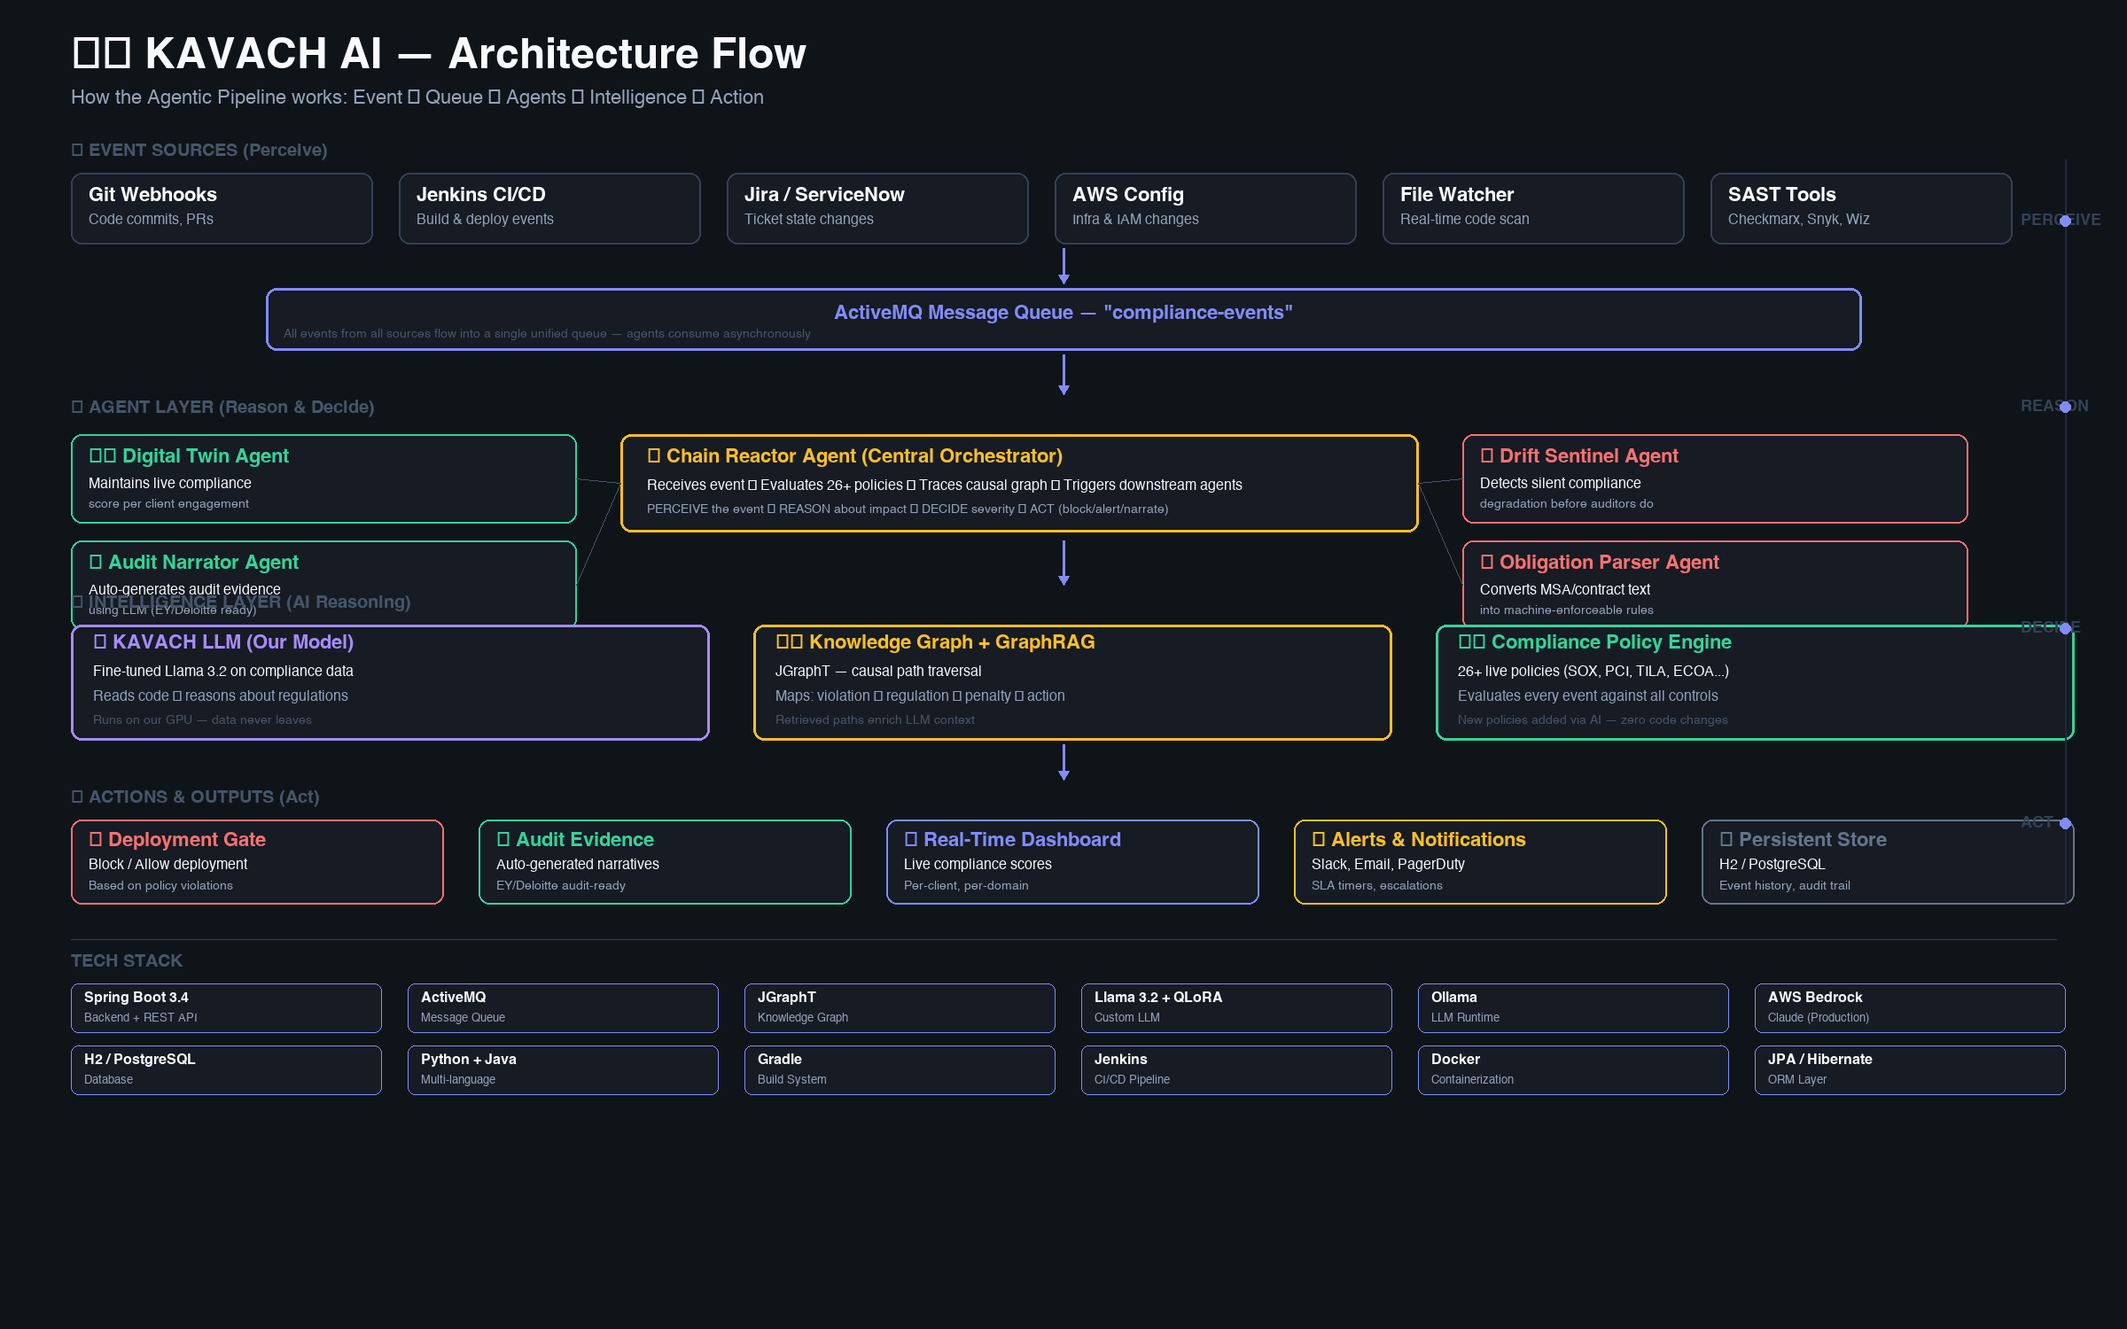
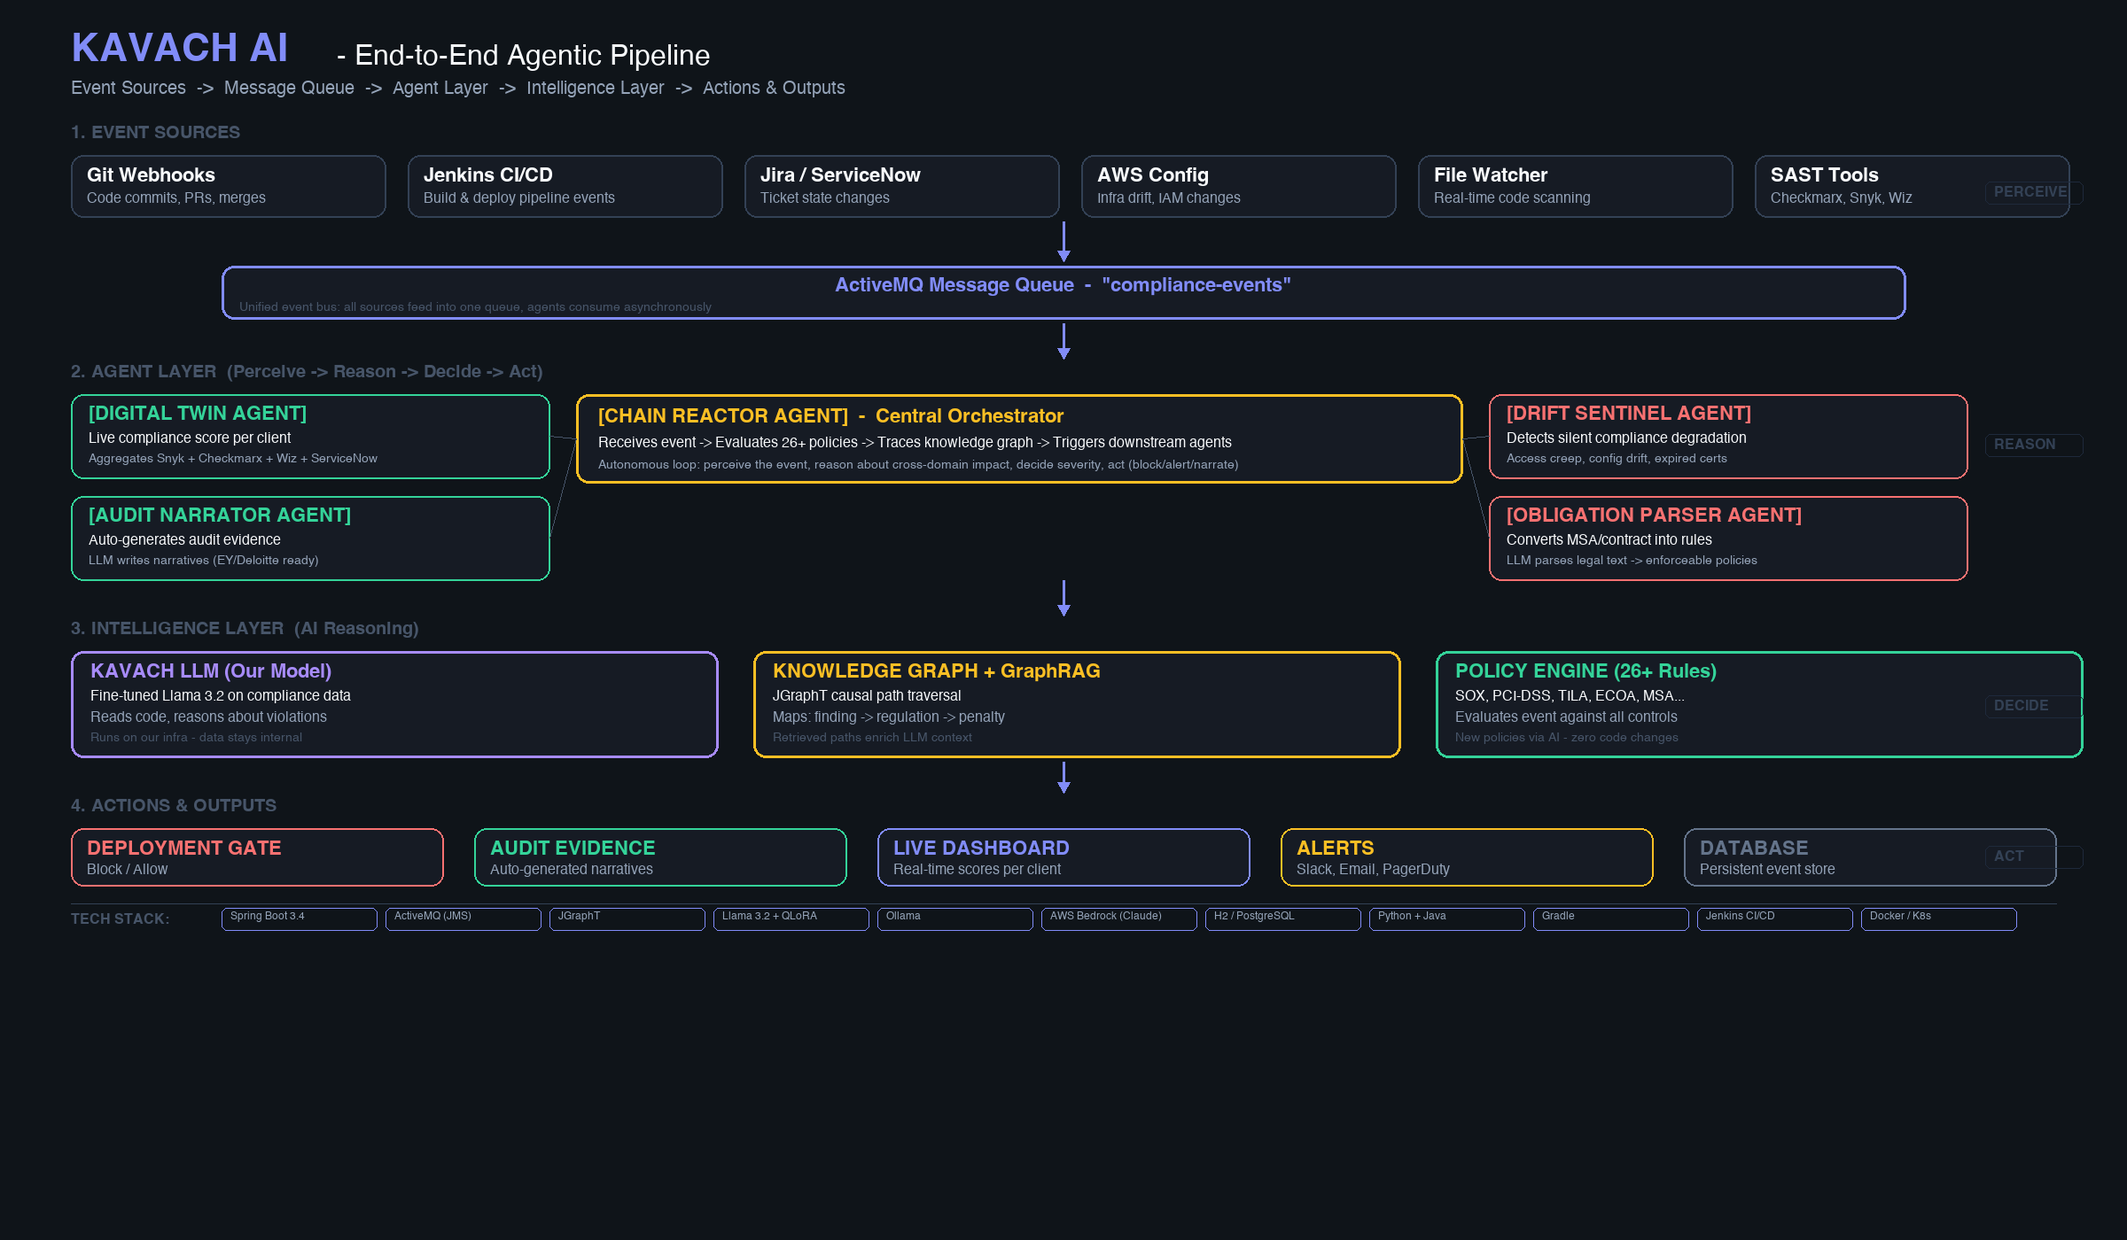
fix: Regenerate architecture PNG without emojis — no more square boxes

diff --git a/generate_architecture_image.py b/generate_architecture_image.py
@@ -1,11 +1,11 @@
 #!/usr/bin/env python3
-"""Generate a high-resolution architecture diagram as PNG."""
+"""Generate a high-resolution architecture diagram as PNG — no emoji (avoids square boxes)."""
 
 from PIL import Image, ImageDraw, ImageFont
 import os
 
 # Image size (high-res for presentation)
-W, H = 2400, 1500
+W, H = 2400, 1400
 img = Image.new('RGB', (W, H), '#0f1419')
 draw = ImageDraw.Draw(img)
 
@@ -18,15 +18,15 @@ def font(size, bold=False):
     except:
         return ImageFont.load_default()
 
-f_title = font(48, bold=True)
-f_subtitle = font(22)
-f_label = font(18, bold=True)
+f_title = font(44, bold=True)
+f_subtitle = font(20)
+f_section = font(20, bold=True)
 f_box_title = font(22, bold=True)
 f_box_sub = font(16)
 f_box_detail = font(14)
-f_section = font(20, bold=True)
-f_tech = font(16, bold=True)
-f_tech_sub = font(13)
+f_label = font(16, bold=True)
+f_tech = font(15, bold=True)
+f_tech_sub = font(12)
 
 # Colors
 PURPLE = '#818cf8'
@@ -39,8 +39,8 @@ DIM = '#475569'
 DARK_CARD = '#161b24'
 BORDER = '#334155'
 
-def rounded_rect(x, y, w, h, fill=DARK_CARD, outline=BORDER, radius=12, width=2):
-    draw.rounded_rectangle([x, y, x+w, y+h], radius=radius, fill=fill, outline=outline, width=width)
+def box(x, y, w, h, outline=BORDER, width=2, radius=14):
+    draw.rounded_rectangle([x, y, x+w, y+h], radius=radius, fill=DARK_CARD, outline=outline, width=width)
 
 def center_text(text, x, y, w, fnt, fill=WHITE):
     bbox = draw.textbbox((0,0), text, font=fnt)
@@ -48,175 +48,160 @@ def center_text(text, x, y, w, fnt, fill=WHITE):
     draw.text((x + (w - tw)//2, y), text, font=fnt, fill=fill)
 
 def arrow_down(x, y1, y2, color=PURPLE):
-    draw.line([(x, y1), (x, y2-8)], fill=color, width=3)
-    draw.polygon([(x-6, y2-10), (x+6, y2-10), (x, y2)], fill=color)
+    draw.line([(x, y1), (x, y2-10)], fill=color, width=3)
+    draw.polygon([(x-7, y2-12), (x+7, y2-12), (x, y2)], fill=color)
 
 # ═══════════════════════════════════════════════════════════
 # TITLE
 # ═══════════════════════════════════════════════════════════
-draw.text((80, 40), "🛡 KAVACH AI — Architecture Flow", font=f_title, fill=WHITE)
-draw.text((80, 100), "How the Agentic Pipeline works: Event → Queue → Agents → Intelligence → Action", font=f_subtitle, fill=GRAY)
+draw.text((80, 35), "KAVACH AI", font=f_title, fill=PURPLE)
+draw.text((380, 48), "- End-to-End Agentic Pipeline", font=font(32), fill=WHITE)
+draw.text((80, 90), "Event Sources  ->  Message Queue  ->  Agent Layer  ->  Intelligence Layer  ->  Actions & Outputs", font=f_subtitle, fill=GRAY)
 
 # ═══════════════════════════════════════════════════════════
 # LAYER 1: EVENT SOURCES
 # ═══════════════════════════════════════════════════════════
-draw.text((80, 160), "① EVENT SOURCES (Perceive)", font=f_section, fill=DIM)
+y0 = 140
+draw.text((80, y0), "1. EVENT SOURCES", font=f_section, fill=DIM)
 
 sources = [
-    ("Git Webhooks", "Code commits, PRs"),
-    ("Jenkins CI/CD", "Build & deploy events"),
+    ("Git Webhooks", "Code commits, PRs, merges"),
+    ("Jenkins CI/CD", "Build & deploy pipeline events"),
     ("Jira / ServiceNow", "Ticket state changes"),
-    ("AWS Config", "Infra & IAM changes"),
-    ("File Watcher", "Real-time code scan"),
+    ("AWS Config", "Infra drift, IAM changes"),
+    ("File Watcher", "Real-time code scanning"),
     ("SAST Tools", "Checkmarx, Snyk, Wiz"),
 ]
-sx = 80
 for i, (title, sub) in enumerate(sources):
-    bx = sx + i * 370
-    rounded_rect(bx, 195, 340, 80, outline=BORDER)
-    draw.text((bx+20, 210), title, font=f_box_title, fill=WHITE)
-    draw.text((bx+20, 240), sub, font=f_box_sub, fill=GRAY)
+    bx = 80 + i * 380
+    box(bx, y0+35, 355, 70)
+    draw.text((bx+18, y0+48), title, font=f_box_title, fill=WHITE)
+    draw.text((bx+18, y0+76), sub, font=f_box_sub, fill=GRAY)
 
-# Arrow down to queue
-arrow_down(W//2, 280, 320, PURPLE)
+# Arrow
+arrow_down(W//2, y0+110, y0+155, PURPLE)
 
 # ═══════════════════════════════════════════════════════════
 # LAYER 2: MESSAGE QUEUE
 # ═══════════════════════════════════════════════════════════
-rounded_rect(300, 325, W-600, 70, outline=PURPLE, width=3)
-center_text("ActiveMQ Message Queue — \"compliance-events\"", 300, 343, W-600, f_box_title, PURPLE)
-draw.text((320, 370), "All events from all sources flow into a single unified queue — agents consume asynchronously", font=f_box_detail, fill=DIM)
+y1 = y0 + 160
+box(250, y1, W-500, 60, outline=PURPLE, width=3)
+center_text("ActiveMQ Message Queue  -  \"compliance-events\"", 250, y1+12, W-500, f_box_title, PURPLE)
+draw.text((270, y1+40), "Unified event bus: all sources feed into one queue, agents consume asynchronously", font=f_box_detail, fill=DIM)
 
-arrow_down(W//2, 400, 445, PURPLE)
+arrow_down(W//2, y1+65, y1+105, PURPLE)
 
 # ═══════════════════════════════════════════════════════════
 # LAYER 3: AGENT LAYER
 # ═══════════════════════════════════════════════════════════
-draw.text((80, 450), "② AGENT LAYER (Reason & Decide)", font=f_section, fill=DIM)
+y2 = y1 + 110
+draw.text((80, y2), "2. AGENT LAYER  (Perceive -> Reason -> Decide -> Act)", font=f_section, fill=DIM)
 
-# Chain Reactor (center, larger)
-cx, cy = 700, 490
-rounded_rect(cx, cy, 900, 110, outline=AMBER, width=3)
-draw.text((cx+30, cy+15), "⚡ Chain Reactor Agent (Central Orchestrator)", font=f_box_title, fill=AMBER)
-draw.text((cx+30, cy+50), "Receives event → Evaluates 26+ policies → Traces causal graph → Triggers downstream agents", font=f_box_sub, fill=WHITE)
-draw.text((cx+30, cy+78), "PERCEIVE the event → REASON about impact → DECIDE severity → ACT (block/alert/narrate)", font=f_box_detail, fill=GRAY)
+# Chain Reactor (center, prominent)
+cx = 650
+box(cx, y2+35, 1000, 100, outline=AMBER, width=3)
+draw.text((cx+25, y2+50), "[CHAIN REACTOR AGENT]  -  Central Orchestrator", font=f_box_title, fill=AMBER)
+draw.text((cx+25, y2+82), "Receives event -> Evaluates 26+ policies -> Traces knowledge graph -> Triggers downstream agents", font=f_box_sub, fill=WHITE)
+draw.text((cx+25, y2+108), "Autonomous loop: perceive the event, reason about cross-domain impact, decide severity, act (block/alert/narrate)", font=f_box_detail, fill=GRAY)
 
 # Left agents
-agents_left = [
-    ("🏗 Digital Twin Agent", "Maintains live compliance", "score per client engagement", GREEN),
-    ("📝 Audit Narrator Agent", "Auto-generates audit evidence", "using LLM (EY/Deloitte ready)", GREEN),
+left_agents = [
+    ("[DIGITAL TWIN AGENT]", "Live compliance score per client", "Aggregates Snyk + Checkmarx + Wiz + ServiceNow", GREEN),
+    ("[AUDIT NARRATOR AGENT]", "Auto-generates audit evidence", "LLM writes narratives (EY/Deloitte ready)", GREEN),
 ]
-for i, (title, line1, line2, color) in enumerate(agents_left):
-    ay = 490 + i * 120
-    rounded_rect(80, ay, 570, 100, outline=color, width=2)
-    draw.text((100, ay+15), title, font=f_box_title, fill=color)
-    draw.text((100, ay+48), line1, font=f_box_sub, fill=WHITE)
-    draw.text((100, ay+72), line2, font=f_box_detail, fill=GRAY)
-    # Connection line
-    draw.line([(650, ay+50), (700, cy+55)], fill=DIM, width=1)
+for i, (title, line1, line2, color) in enumerate(left_agents):
+    ay = y2 + 35 + i * 115
+    box(80, ay, 540, 95, outline=color, width=2)
+    draw.text((100, ay+12), title, font=f_box_title, fill=color)
+    draw.text((100, ay+42), line1, font=f_box_sub, fill=WHITE)
+    draw.text((100, ay+66), line2, font=f_box_detail, fill=GRAY)
+    # connector
+    draw.line([(620, ay+47), (cx, y2+85)], fill=DIM, width=1)
 
 # Right agents
-agents_right = [
-    ("🔍 Drift Sentinel Agent", "Detects silent compliance", "degradation before auditors do", RED),
-    ("📜 Obligation Parser Agent", "Converts MSA/contract text", "into machine-enforceable rules", RED),
+right_agents = [
+    ("[DRIFT SENTINEL AGENT]", "Detects silent compliance degradation", "Access creep, config drift, expired certs", RED),
+    ("[OBLIGATION PARSER AGENT]", "Converts MSA/contract into rules", "LLM parses legal text -> enforceable policies", RED),
 ]
-for i, (title, line1, line2, color) in enumerate(agents_right):
-    ay = 490 + i * 120
-    rounded_rect(1650, ay, 570, 100, outline=color, width=2)
-    draw.text((1670, ay+15), title, font=f_box_title, fill=color)
-    draw.text((1670, ay+48), line1, font=f_box_sub, fill=WHITE)
-    draw.text((1670, ay+72), line2, font=f_box_detail, fill=GRAY)
-    draw.line([(1650, ay+50), (1600, cy+55)], fill=DIM, width=1)
+for i, (title, line1, line2, color) in enumerate(right_agents):
+    ay = y2 + 35 + i * 115
+    box(1680, ay, 540, 95, outline=color, width=2)
+    draw.text((1700, ay+12), title, font=f_box_title, fill=color)
+    draw.text((1700, ay+42), line1, font=f_box_sub, fill=WHITE)
+    draw.text((1700, ay+66), line2, font=f_box_detail, fill=GRAY)
+    draw.line([(1680, ay+47), (cx+1000, y2+85)], fill=DIM, width=1)
 
 # Arrow down
-arrow_down(W//2, 610, 660, PURPLE)
+arrow_down(W//2, y2+245, y2+285, PURPLE)
 
 # ═══════════════════════════════════════════════════════════
 # LAYER 4: INTELLIGENCE LAYER
 # ═══════════════════════════════════════════════════════════
-draw.text((80, 670), "③ INTELLIGENCE LAYER (AI Reasoning)", font=f_section, fill=DIM)
+y3 = y2 + 290
+draw.text((80, y3), "3. INTELLIGENCE LAYER  (AI Reasoning)", font=f_section, fill=DIM)
 
 intel = [
-    ("🧠 KAVACH LLM (Our Model)", "Fine-tuned Llama 3.2 on compliance data", "Reads code → reasons about regulations", "Runs on our GPU — data never leaves", '#a78bfa'),
-    ("🕸 Knowledge Graph + GraphRAG", "JGraphT — causal path traversal", "Maps: violation → regulation → penalty → action", "Retrieved paths enrich LLM context", AMBER),
-    ("⚙ Compliance Policy Engine", "26+ live policies (SOX, PCI, TILA, ECOA...)", "Evaluates every event against all controls", "New policies added via AI — zero code changes", GREEN),
+    ("KAVACH LLM (Our Model)", "Fine-tuned Llama 3.2 on compliance data", "Reads code, reasons about violations", "Runs on our infra - data stays internal", '#a78bfa'),
+    ("KNOWLEDGE GRAPH + GraphRAG", "JGraphT causal path traversal", "Maps: finding -> regulation -> penalty", "Retrieved paths enrich LLM context", AMBER),
+    ("POLICY ENGINE (26+ Rules)", "SOX, PCI-DSS, TILA, ECOA, MSA...", "Evaluates event against all controls", "New policies via AI - zero code changes", GREEN),
 ]
 for i, (title, line1, line2, line3, color) in enumerate(intel):
     ix = 80 + i * 770
-    rounded_rect(ix, 705, 720, 130, outline=color, width=3)
-    draw.text((ix+25, 715), title, font=f_box_title, fill=color)
-    draw.text((ix+25, 750), line1, font=f_box_sub, fill=WHITE)
-    draw.text((ix+25, 778), line2, font=f_box_sub, fill=GRAY)
-    draw.text((ix+25, 806), line3, font=f_box_detail, fill=DIM)
+    box(ix, y3+35, 730, 120, outline=color, width=3)
+    draw.text((ix+22, y3+48), title, font=f_box_title, fill=color)
+    draw.text((ix+22, y3+78), line1, font=f_box_sub, fill=WHITE)
+    draw.text((ix+22, y3+102), line2, font=f_box_sub, fill=GRAY)
+    draw.text((ix+22, y3+126), line3, font=f_box_detail, fill=DIM)
 
 # Arrow down
-arrow_down(W//2, 840, 880, PURPLE)
+arrow_down(W//2, y3+160, y3+195, PURPLE)
 
 # ═══════════════════════════════════════════════════════════
-# LAYER 5: ACTIONS / OUTPUTS
+# LAYER 5: OUTPUTS
 # ═══════════════════════════════════════════════════════════
-draw.text((80, 890), "④ ACTIONS & OUTPUTS (Act)", font=f_section, fill=DIM)
+y4 = y3 + 200
+draw.text((80, y4), "4. ACTIONS & OUTPUTS", font=f_section, fill=DIM)
 
 outputs = [
-    ("🚫 Deployment Gate", "Block / Allow deployment", "Based on policy violations", RED),
-    ("📄 Audit Evidence", "Auto-generated narratives", "EY/Deloitte audit-ready", GREEN),
-    ("📊 Real-Time Dashboard", "Live compliance scores", "Per-client, per-domain", PURPLE),
-    ("🔔 Alerts & Notifications", "Slack, Email, PagerDuty", "SLA timers, escalations", AMBER),
-    ("💾 Persistent Store", "H2 / PostgreSQL", "Event history, audit trail", '#64748b'),
+    ("DEPLOYMENT GATE", "Block / Allow", RED),
+    ("AUDIT EVIDENCE", "Auto-generated narratives", GREEN),
+    ("LIVE DASHBOARD", "Real-time scores per client", PURPLE),
+    ("ALERTS", "Slack, Email, PagerDuty", AMBER),
+    ("DATABASE", "Persistent event store", '#64748b'),
 ]
-for i, (title, line1, line2, color) in enumerate(outputs):
-    ox = 80 + i * 460
-    rounded_rect(ox, 925, 420, 95, outline=color, width=2)
-    draw.text((ox+20, 938), title, font=f_box_title, fill=color)
-    draw.text((ox+20, 968), line1, font=f_box_sub, fill=WHITE)
-    draw.text((ox+20, 993), line2, font=f_box_detail, fill=GRAY)
+for i, (title, sub, color) in enumerate(outputs):
+    ox = 80 + i * 455
+    box(ox, y4+35, 420, 65, outline=color, width=2)
+    draw.text((ox+18, y4+48), title, font=f_box_title, fill=color)
+    draw.text((ox+18, y4+74), sub, font=f_box_sub, fill=GRAY)
 
 # ═══════════════════════════════════════════════════════════
-# TECH STACK BAR (Bottom)
+# TECH STACK BAR
 # ═══════════════════════════════════════════════════════════
-draw.line([(80, 1060), (W-80, 1060)], fill=BORDER, width=1)
-draw.text((80, 1075), "TECH STACK", font=f_section, fill=DIM)
+y5 = y4 + 120
+draw.line([(80, y5), (W-80, y5)], fill=BORDER, width=1)
+draw.text((80, y5+10), "TECH STACK:", font=f_label, fill=DIM)
 
 techs = [
-    ("Spring Boot 3.4", "Backend + REST API"),
-    ("ActiveMQ", "Message Queue"),
-    ("JGraphT", "Knowledge Graph"),
-    ("Llama 3.2 + QLoRA", "Custom LLM"),
-    ("Ollama", "LLM Runtime"),
-    ("AWS Bedrock", "Claude (Production)"),
-    ("H2 / PostgreSQL", "Database"),
-    ("Python + Java", "Multi-language"),
-    ("Gradle", "Build System"),
-    ("Jenkins", "CI/CD Pipeline"),
-    ("Docker", "Containerization"),
-    ("JPA / Hibernate", "ORM Layer"),
+    "Spring Boot 3.4", "ActiveMQ (JMS)", "JGraphT", "Llama 3.2 + QLoRA",
+    "Ollama", "AWS Bedrock (Claude)", "H2 / PostgreSQL", "Python + Java",
+    "Gradle", "Jenkins CI/CD", "Docker / K8s", "JPA / Hibernate"
 ]
-for i, (name, sub) in enumerate(techs):
-    tx = 80 + (i % 6) * 380
-    ty = 1110 + (i // 6) * 70
-    # Tech pill
-    rounded_rect(tx, ty, 350, 55, outline=PURPLE, radius=8, width=1)
-    draw.text((tx+15, ty+8), name, font=f_tech, fill=WHITE)
-    draw.text((tx+15, ty+32), sub, font=f_tech_sub, fill=GRAY)
+tx_start = 250
+for i, tech in enumerate(techs):
+    tx = tx_start + i * 185
+    if tx + 170 > W:
+        break
+    draw.rounded_rectangle([tx, y5+5, tx+175, y5+30], radius=6, fill=None, outline=PURPLE, width=1)
+    draw.text((tx+10, y5+8), tech, font=f_tech_sub, fill=GRAY)
 
-# ═══════════════════════════════════════════════════════════
-# FLOW LABELS (Right side)
-# ═══════════════════════════════════════════════════════════
-flow_labels = [
-    (240, "PERCEIVE"),
-    (450, "REASON"),
-    (700, "DECIDE"),
-    (920, "ACT"),
-]
-for y, label in flow_labels:
-    draw.text((W-120, y), label, font=f_label, fill='#334155')
-    # Vertical line
-draw.line([(W-70, 180), (W-70, 1020)], fill='#1e293b', width=2)
-for y, _ in flow_labels:
-    draw.ellipse([(W-76, y+3), (W-64, y+15)], fill=PURPLE)
+# Right-side flow indicators
+ry = [(y0+70, "PERCEIVE"), (y2+85, "REASON"), (y3+90, "DECIDE"), (y4+60, "ACT")]
+for y, label in ry:
+    draw.rounded_rectangle([W-160, y-5, W-50, y+20], radius=6, fill=None, outline='#1e293b', width=1)
+    draw.text((W-150, y-1), label, font=f_label, fill='#334155')
 
 # Save
 output_path = os.path.join(os.path.dirname(os.path.abspath(__file__)), 'assets', 'kavach-architecture.png')
 img.save(output_path, 'PNG', quality=95)
-print(f"✓ Architecture diagram saved: {output_path}")
-print(f"  Size: {W}x{H} pixels")
+print(f"Done! Saved: {output_path} ({W}x{H}px)")
